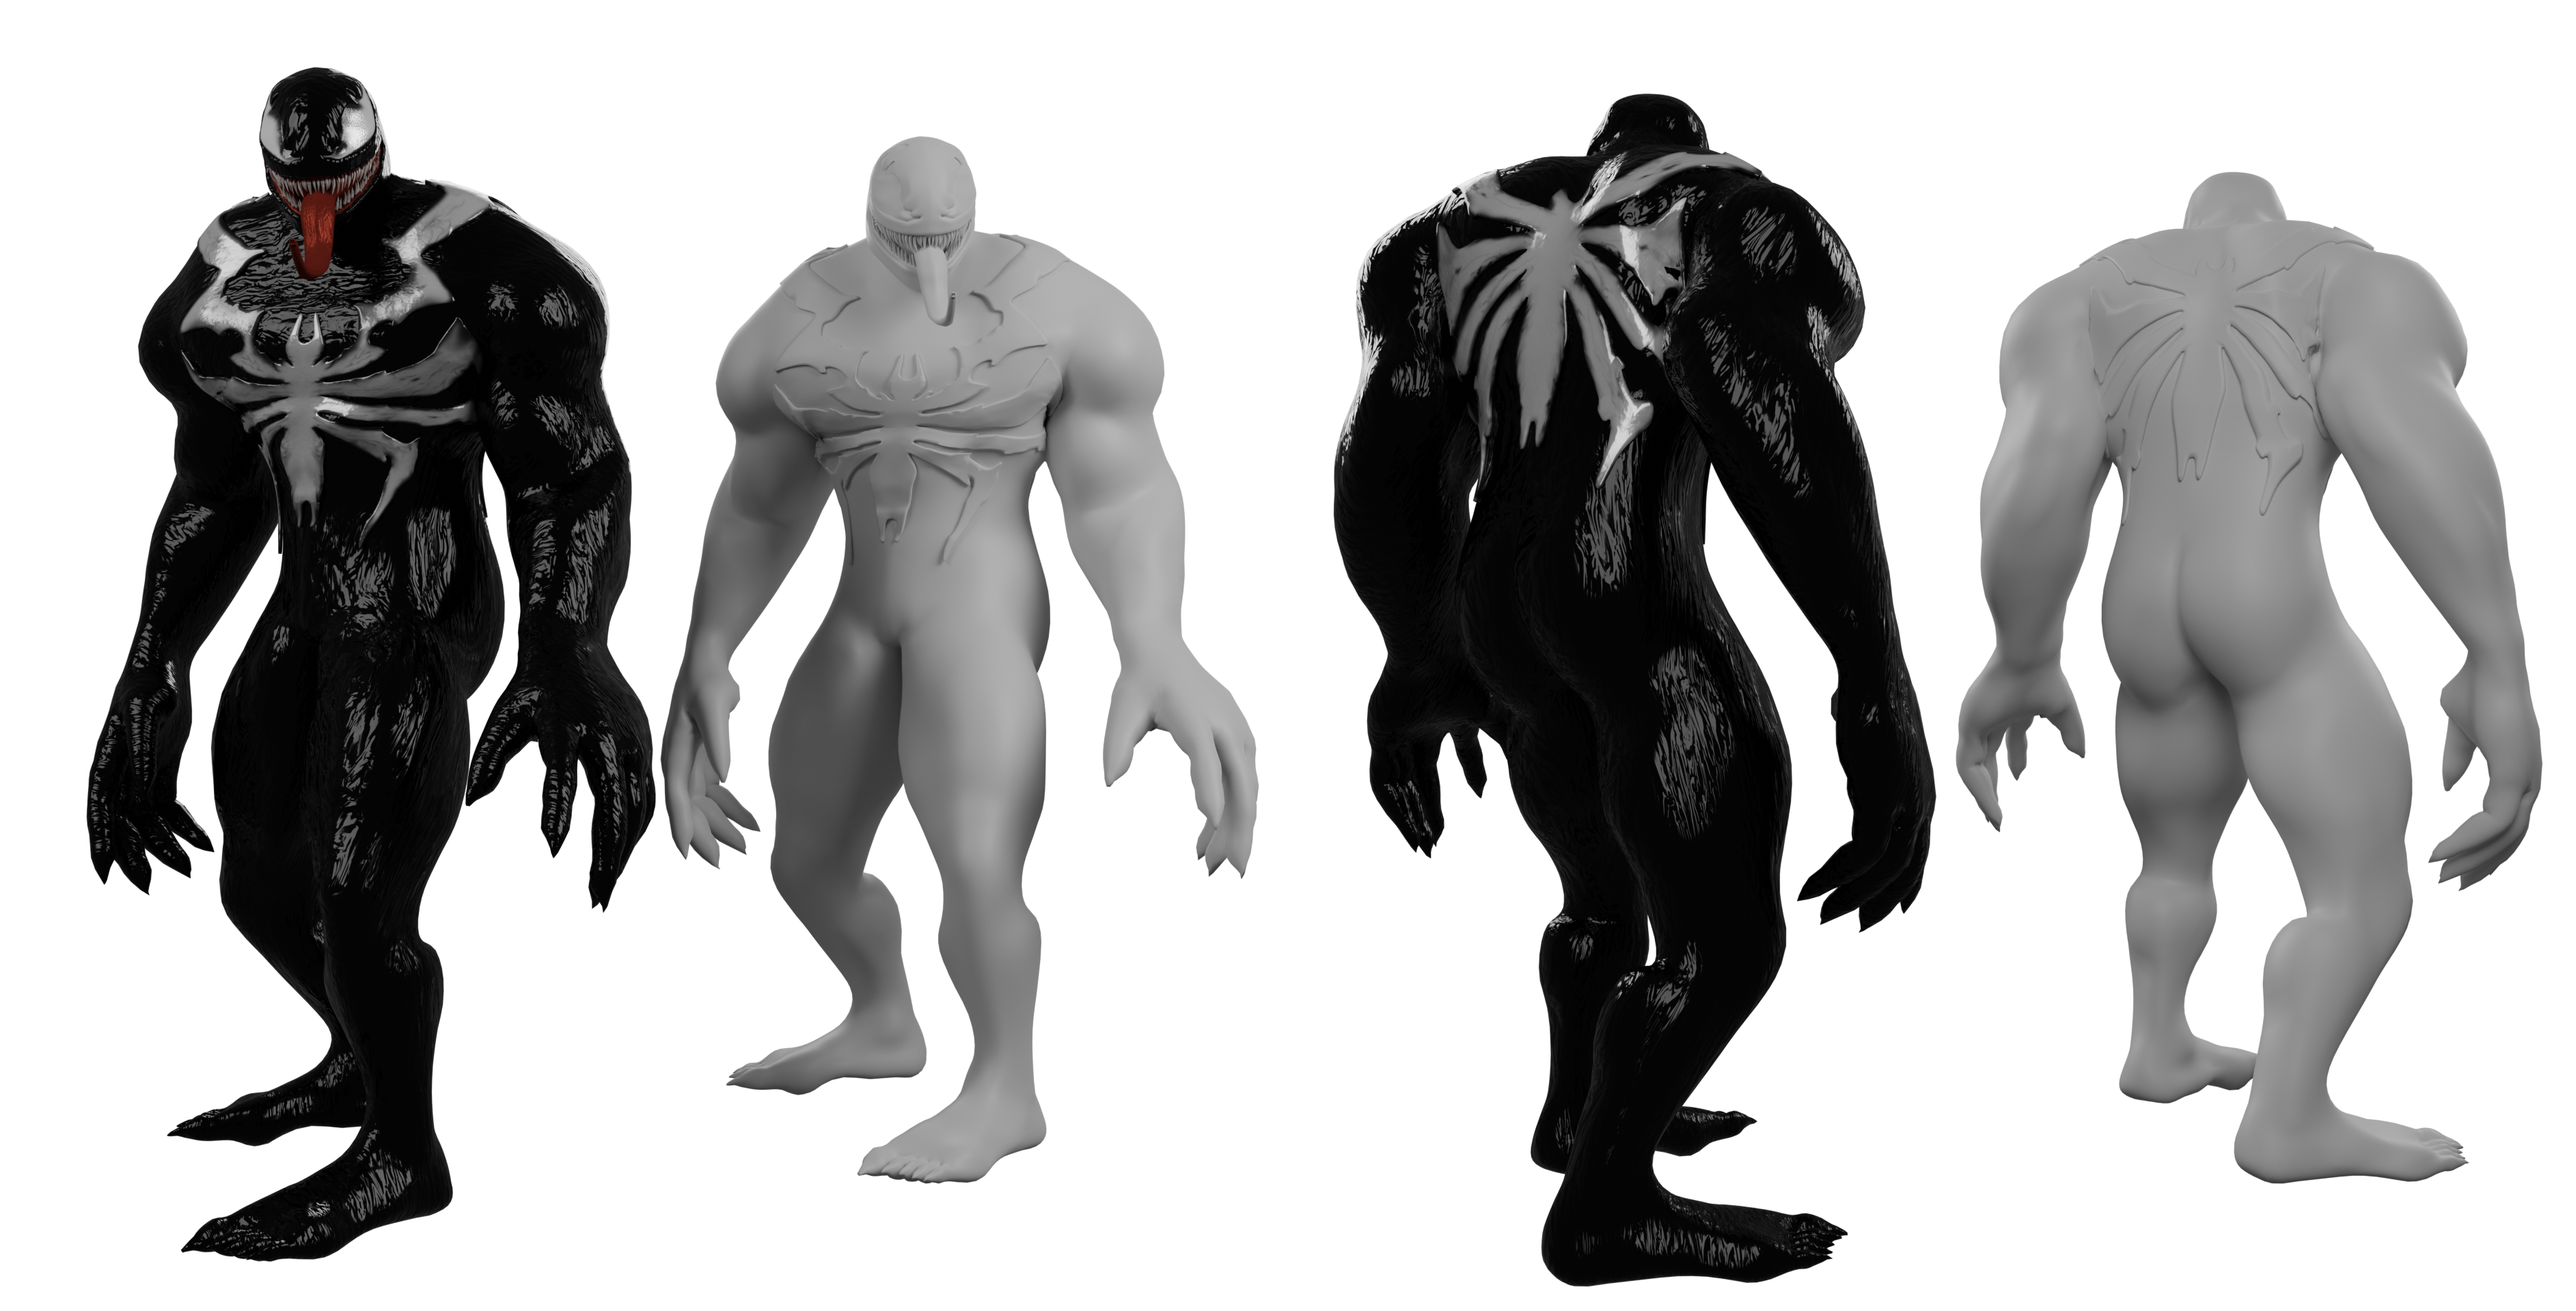
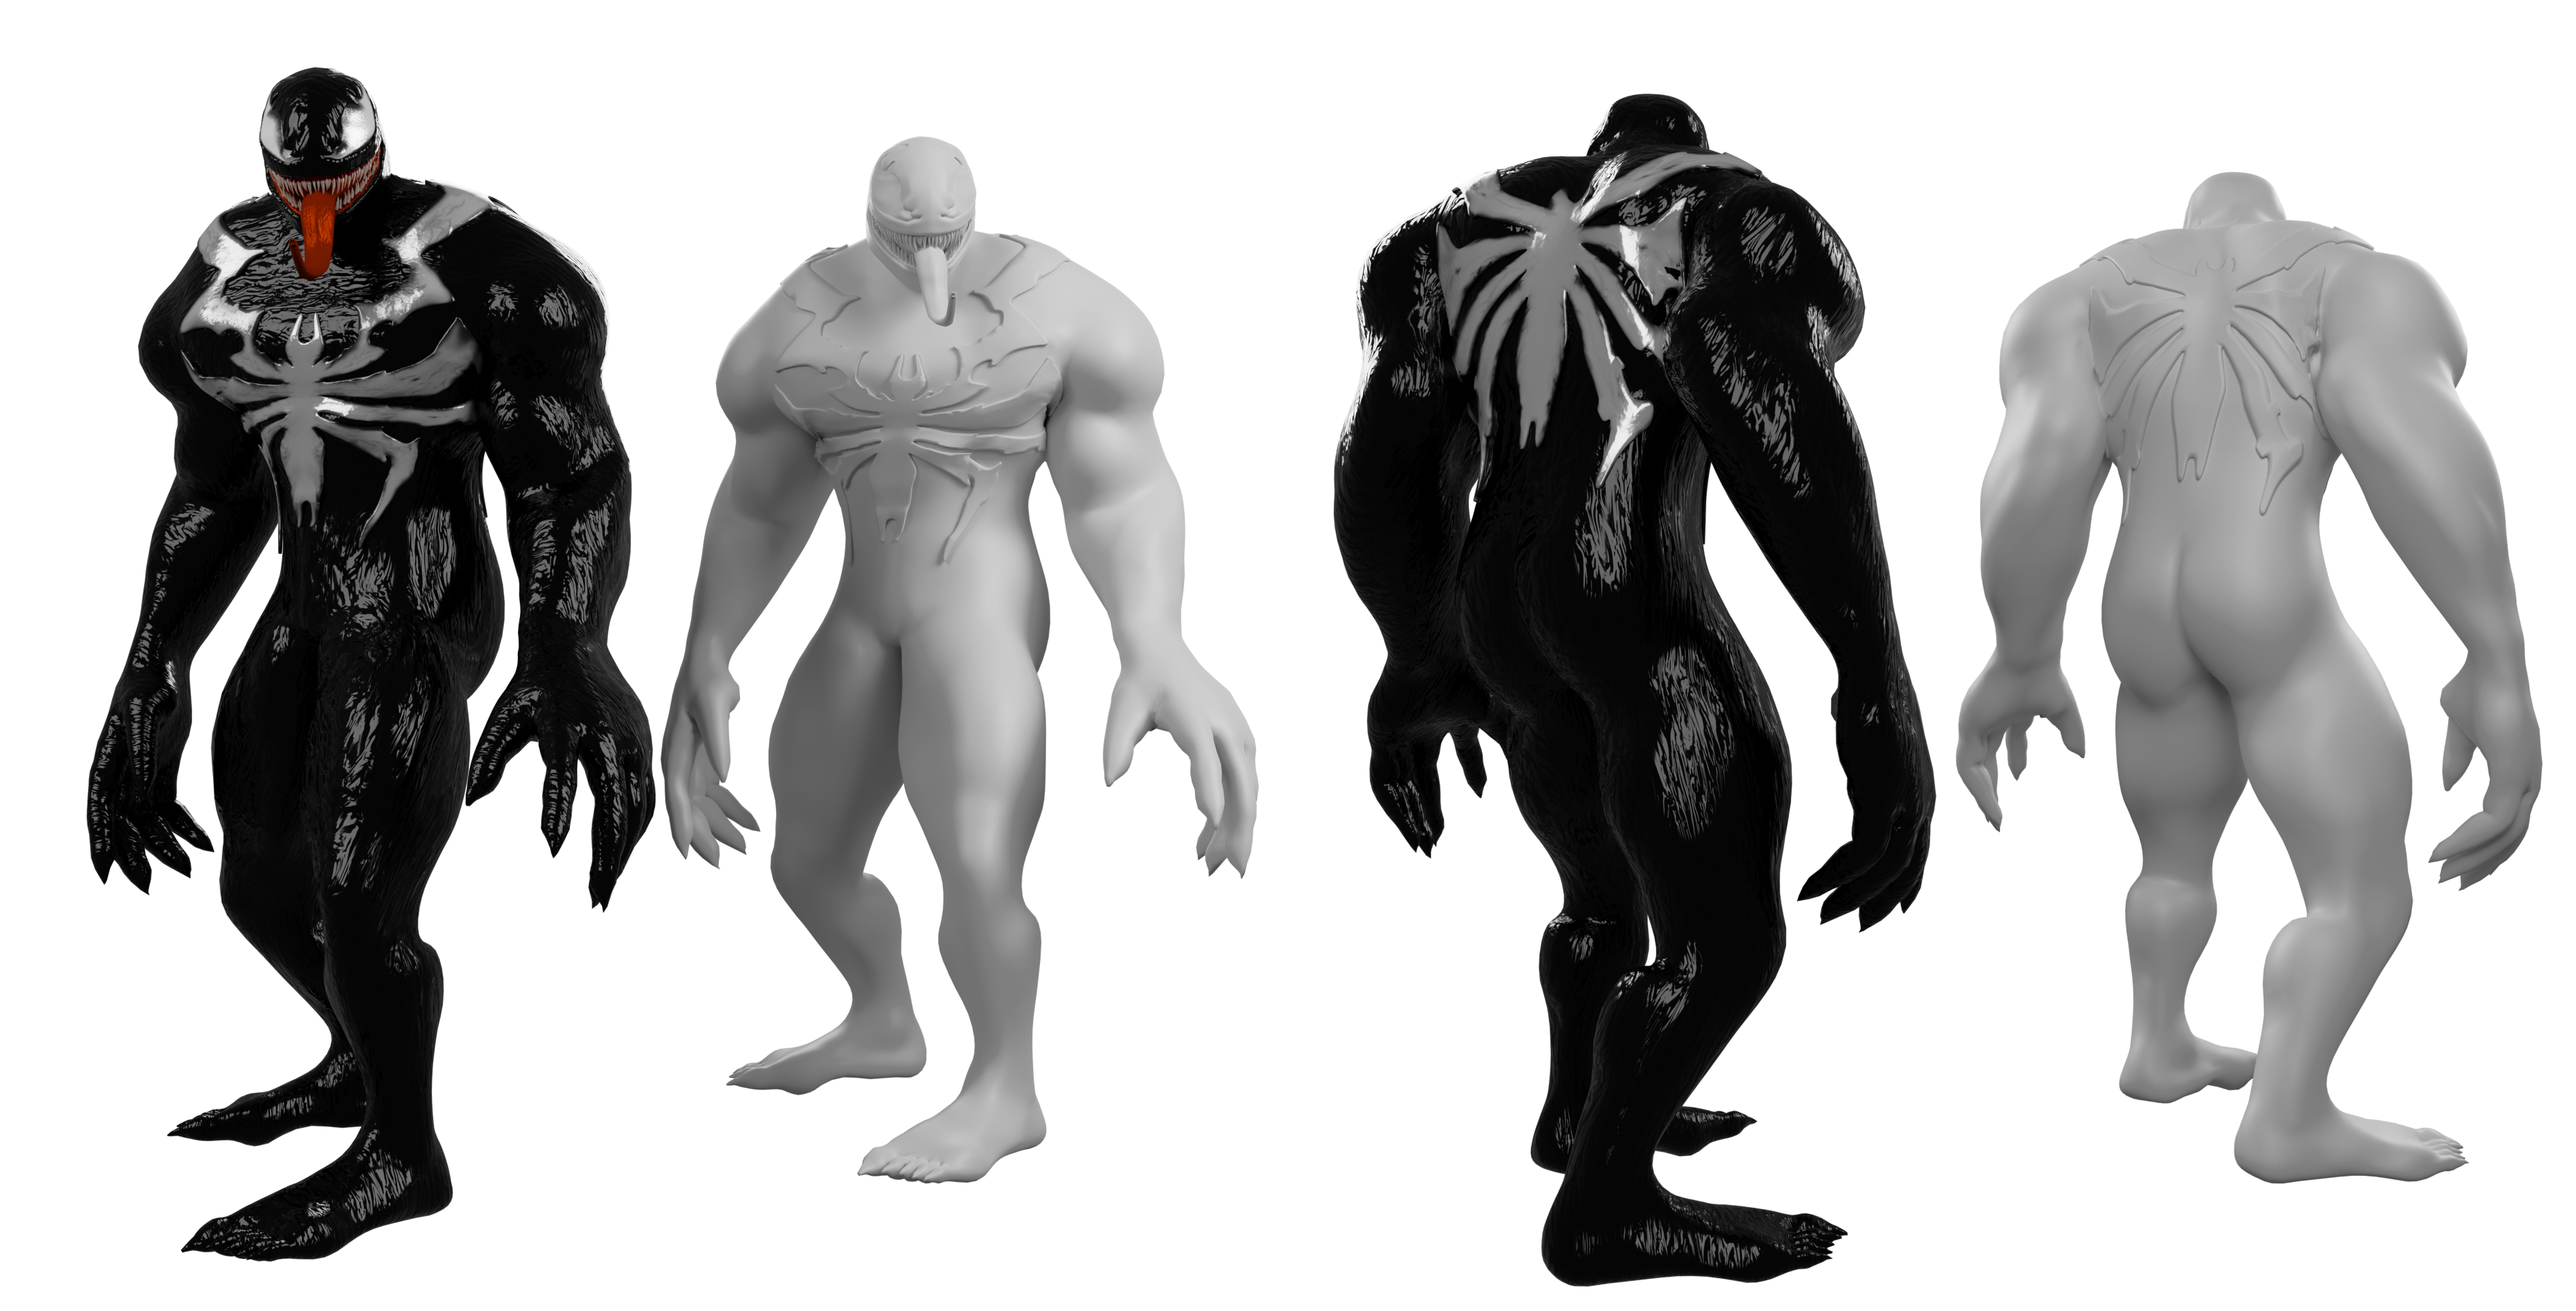
Add offsets to characters

diff --git a/src/components/3d/Workbench.jsx b/src/components/3d/Workbench.jsx
@@ -2,7 +2,6 @@ import { forwardRef, useState, useEffect } from "react";
 import { useMatcapTexture, Center, Text3D } from "@react-three/drei";
 import MiniSpid from "./MiniSpid";
 import MiniSymb from "./MiniSymb";
-import MiniSymbTendrils from "./MiniSymbTendrils";
 import Venom from "./Venom";
 import Webshooter from "./Webshooter";
 import MiniHand from "./MiniHand";
@@ -100,20 +99,15 @@ const Workbench = forwardRef((props, ref) => {
 
         {/* Top row */}
         <MiniSymb
-          position={[-3.25, 0.9, 3.3]}
+          position={[-3.3, 0.9, 3.3]}
           rotationY={2.0}
           scale={0.12}
           isActualWorkbenchClicked={props.isActualWorkbenchClicked}
           setHtmlComponent={props.setHtmlComponent}
           setShowDiv={props.setShowDiv}
         />
-        <MiniSymbTendrils
-          position={[-3.25, 0.87, 3.3]}
-          rotationY={2.0}
-          scale={0.12}
-        />
         <Venom
-          position={[-3.3, 0.87, 2.9]}
+          position={[-3.3, 0.9, 2.9]}
           rotationY={1.2}
           scale={0.1}
           isActualWorkbenchClicked={props.isActualWorkbenchClicked}
@@ -122,10 +116,10 @@ const Workbench = forwardRef((props, ref) => {
         />
 
         {/* Middle Row */}
-        <PizzaTime
-          position={[-2.9, 0.85, 2.9]}
+        <CityScene
+          position={[-2.9, 0.9, 3.6]}
           rotationY={1.6}
-          scale={0.1}
+          scale={0.01}
           isActualWorkbenchClicked={props.isActualWorkbenchClicked}
           setHtmlComponent={props.setHtmlComponent}
           setShowDiv={props.setShowDiv}
@@ -138,10 +132,10 @@ const Workbench = forwardRef((props, ref) => {
           setHtmlComponent={props.setHtmlComponent}
           setShowDiv={props.setShowDiv}
         />
-        <CityScene
-          position={[-2.75, 0.873, 3.6]}
+        <PizzaTime
+          position={[-2.9, 0.9, 2.9]}
           rotationY={1.6}
-          scale={0.01}
+          scale={0.1}
           isActualWorkbenchClicked={props.isActualWorkbenchClicked}
           setHtmlComponent={props.setHtmlComponent}
           setShowDiv={props.setShowDiv}
@@ -157,7 +151,7 @@ const Workbench = forwardRef((props, ref) => {
           setShowDiv={props.setShowDiv}
         />
         <SpidHead
-          position={[-2.5, 0.88, 3.3]}
+          position={[-2.5, 0.9, 3.3]}
           rotationY={1.6}
           scale={0.1}
           isActualWorkbenchClicked={props.isActualWorkbenchClicked}
@@ -165,7 +159,7 @@ const Workbench = forwardRef((props, ref) => {
           setShowDiv={props.setShowDiv}
         />
         <MiniHand
-          position={[-2.5, 0.9, 2.95]}
+          position={[-2.5, 0.9, 2.9]}
           rotationY={1.2}
           scale={0.2}
           isActualWorkbenchClicked={props.isActualWorkbenchClicked}

diff --git a/src/components/3d/MiniSymb.jsx b/src/components/3d/MiniSymb.jsx
@@ -6,6 +6,7 @@ import React, { useState } from "react";
 import { useGLTF } from "@react-three/drei";
 import { Select } from "@react-three/postprocessing";
 import Symbiote from "./3d-descriptions/Symbiote";
+import MiniSymbTendrils from "./MiniSymbTendrils";
 
 export default function MiniSymb(props) {
   const { nodes, materials } = useGLTF("/symb_body.glb");
@@ -31,36 +32,49 @@ export default function MiniSymb(props) {
     }, 10); // delay in milliseconds
   };
 
+  console.log(props.position);
+
   return (
-    <Select enabled={enabled && props.isActualWorkbenchClicked}>
-      <group
-        {...props}
-        dispose={null}
-        position={props.position}
-        rotation-y={props.rotationY}
+    <>
+      <Select enabled={enabled && props.isActualWorkbenchClicked}>
+        <group
+          {...props}
+          dispose={null}
+          position={props.position.map(
+            (value, index) => value + [0.05, 0, 0][index]
+          )}
+          rotation-y={props.rotationY}
+          scale={props.scale}
+          onPointerOver={handlePointerOver}
+          onPointerOut={handlePointerOut}
+          onClick={(event) => {
+            event.stopPropagation();
+            props.setHtmlComponent(<Symbiote />);
+            props.setShowDiv(true);
+          }}
+        >
+          <mesh
+            castShadow
+            receiveShadow
+            geometry={nodes["Spider-Manmesh001"].geometry}
+            material={materials.Black}
+          />
+          <mesh
+            castShadow
+            receiveShadow
+            geometry={nodes["Spider-Manmesh001_1"].geometry}
+            material={materials.White}
+          />
+        </group>
+      </Select>
+      <MiniSymbTendrils
+        position={props.position.map(
+          (value, index) => value + [0.05, 0, 0][index]
+        )}
+        rotationY={props.rotationY}
         scale={props.scale}
-        onPointerOver={handlePointerOver}
-        onPointerOut={handlePointerOut}
-        onClick={(event) => {
-          event.stopPropagation();
-          props.setHtmlComponent(<Symbiote />);
-          props.setShowDiv(true);
-        }}
-      >
-        <mesh
-          castShadow
-          receiveShadow
-          geometry={nodes["Spider-Manmesh001"].geometry}
-          material={materials.Black}
-        />
-        <mesh
-          castShadow
-          receiveShadow
-          geometry={nodes["Spider-Manmesh001_1"].geometry}
-          material={materials.White}
-        />
-      </group>
-    </Select>
+      />
+    </>
   );
 }
 

diff --git a/src/components/3d/3d-descriptions/AdvancedSuit.jsx b/src/components/3d/3d-descriptions/AdvancedSuit.jsx
@@ -8,6 +8,7 @@ export default function AdvancedSuit() {
       <Image src="images/3d/advanced-suit/315.png" />
       <WhiteText text={ThreeD.fullSuit} />
       <Image src="images/3d/advanced-suit/135.png" />
+      <Image src="images/3d/advanced-suit/dual_180.png" />
       <WhiteText text={ThreeD.fullSuit2} />
       <Image src="images/3d/advanced-suit/315_v1.png" />
       <Image src="images/3d/advanced-suit/spiderman_low_poly_scope.png" />

diff --git a/src/components/3d/3d-descriptions/Venom.jsx b/src/components/3d/3d-descriptions/Venom.jsx
@@ -8,8 +8,8 @@ export default function Venom() {
       <Image src="images/3d/venom/315.png" />
       <WhiteText text={ThreeD.venom} />
       <Image src="images/3d/venom/135.png" />
-      <Image src="images/3d/venom/venom_low_poly_scope.png" />
       <Image src="images/3d/venom/dual_180.png" />
+      <Image src="images/3d/venom/venom_low_poly_scope.png" />
     </>
   );
 }

diff --git a/src/components/3d/CityScene.jsx b/src/components/3d/CityScene.jsx
@@ -89,7 +89,9 @@ export default function CityScene(props) {
       <group
         {...props}
         dispose={null}
-        position={props.position}
+        position={props.position.map(
+          (value, index) => value + [0.15, -0.027, 0][index]
+        )}
         rotation-y={props.rotationY}
         scale={props.scale}
         onPointerOver={handlePointerOver}

diff --git a/src/components/3d/PizzaTime.jsx b/src/components/3d/PizzaTime.jsx
@@ -88,7 +88,9 @@ export default function PizzaTime(props) {
       <group
         {...props}
         dispose={null}
-        position={props.position}
+        position={props.position.map(
+          (value, index) => value + [0, -0.05, 0][index]
+        )}
         rotation-y={props.rotationY}
         scale={props.scale}
         onPointerOver={handlePointerOver}

diff --git a/src/components/3d/SpidHead.jsx b/src/components/3d/SpidHead.jsx
@@ -36,7 +36,9 @@ export default function SpidHead(props) {
       <group
         {...props}
         dispose={null}
-        position={props.position}
+        position={props.position.map(
+          (value, index) => value + [0, -0.02, 0][index]
+        )}
         rotation-y={props.rotationY}
         scale={props.scale}
         onPointerOver={handlePointerOver}

diff --git a/src/components/3d/MiniHand.jsx b/src/components/3d/MiniHand.jsx
@@ -36,7 +36,9 @@ export default function MiniHand(props) {
       <group
         {...props}
         dispose={null}
-        position={props.position}
+        position={props.position.map(
+          (value, index) => value + [0, 0, 0.05][index]
+        )}
         rotation-y={props.rotationY}
         scale={props.scale}
         onPointerOver={handlePointerOver}

diff --git a/src/components/3d/Venom.jsx b/src/components/3d/Venom.jsx
@@ -88,7 +88,9 @@ export default function Venom(props) {
       <group
         {...props}
         dispose={null}
-        position={props.position}
+        position={props.position.map(
+          (value, index) => value + [0, -0.03, 0][index]
+        )}
         rotation-y={props.rotationY}
         scale={props.scale}
         onPointerOver={handlePointerOver}
